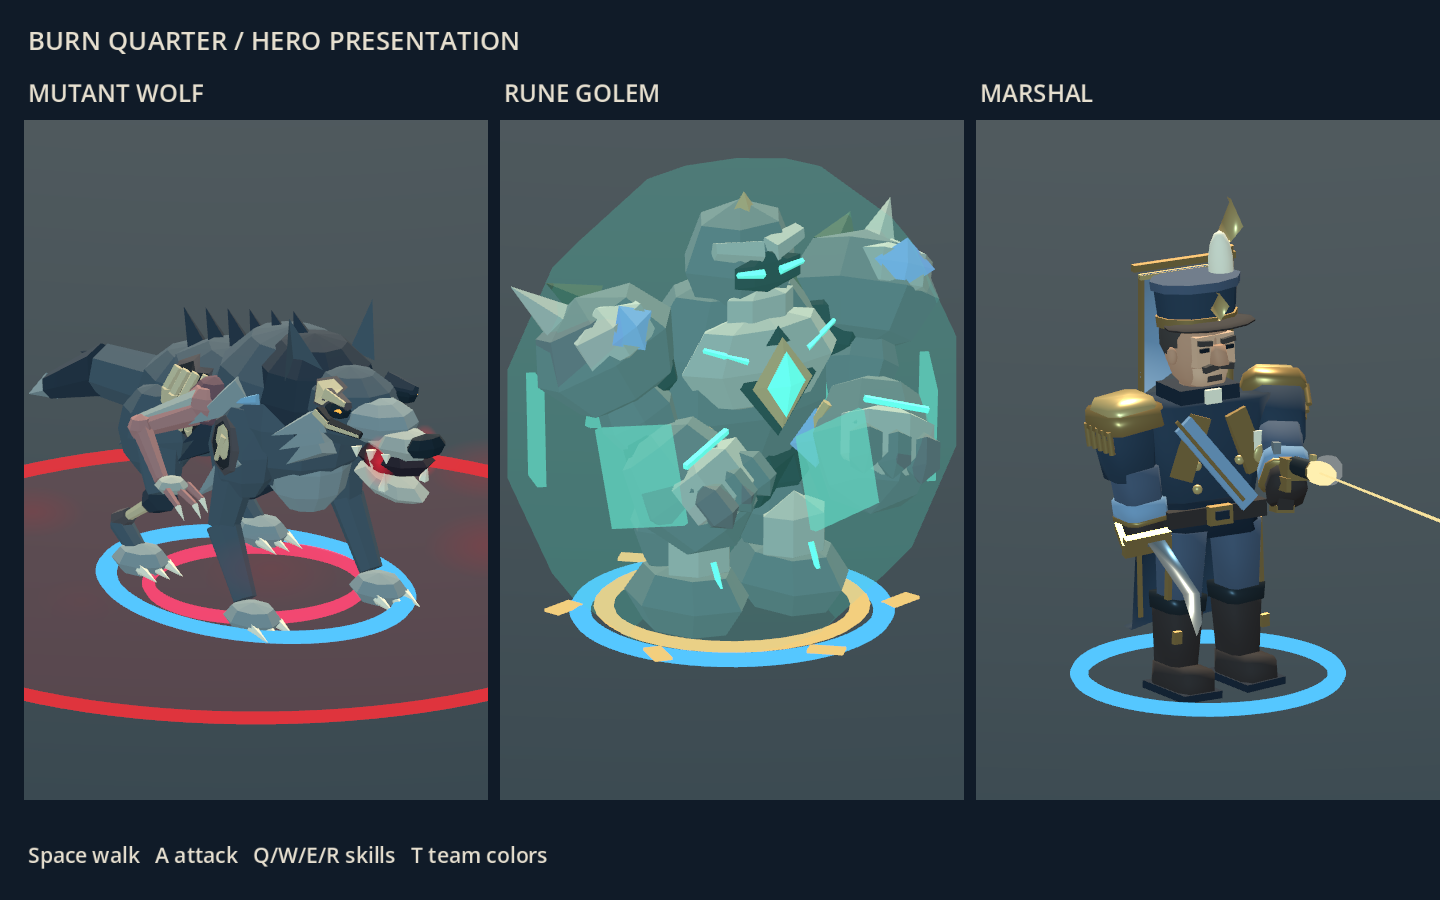
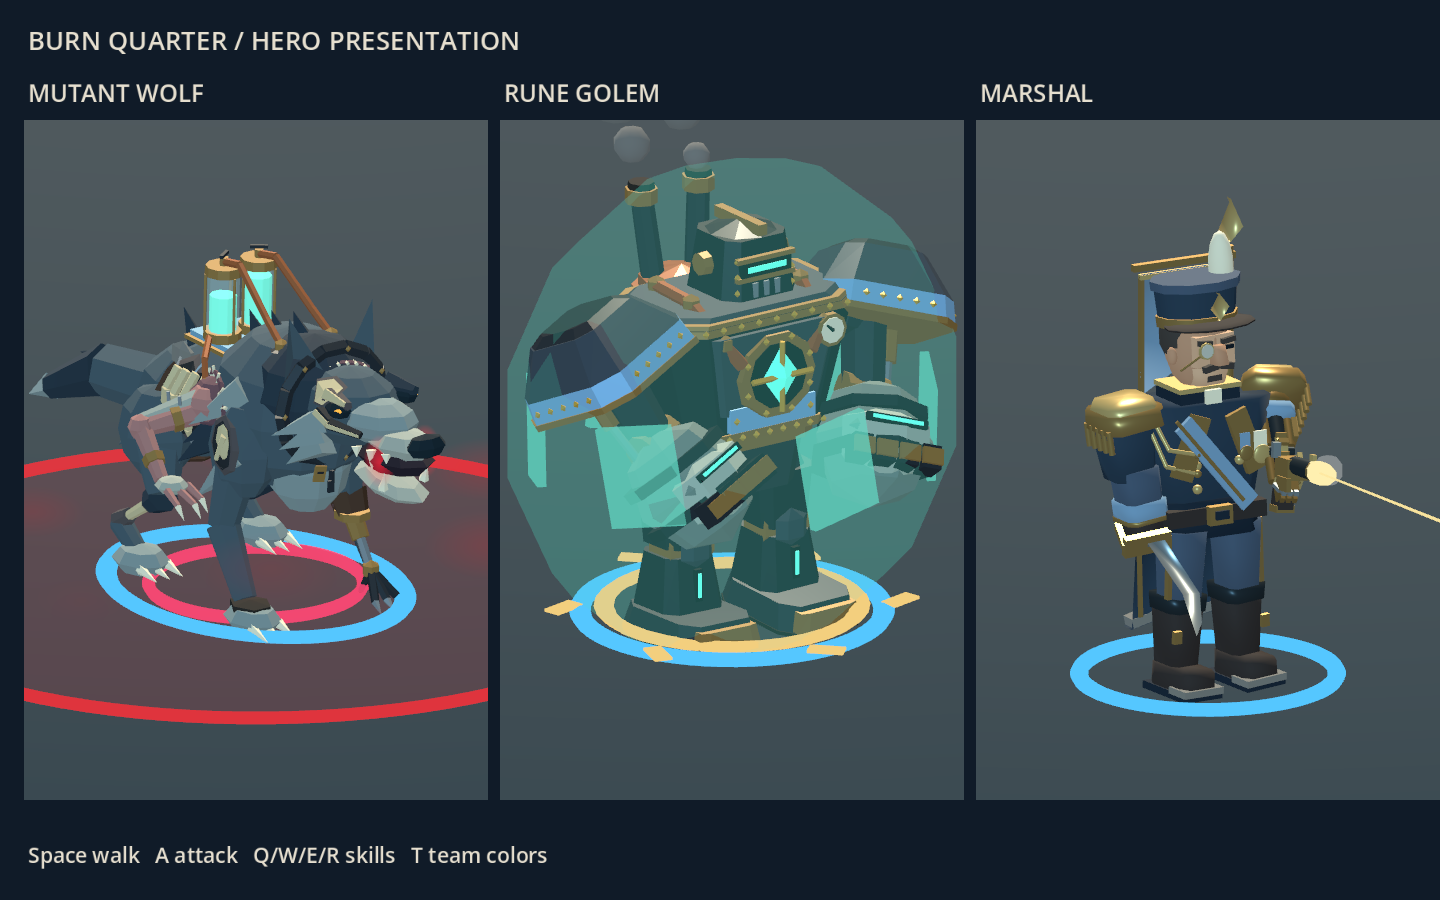
Document the steampunk hero looks and refresh the hero preview

diff --git a/docs/units.md b/docs/units.md
@@ -5,7 +5,7 @@
 - `units/Archer.tscn`: 타입 2. 1티어 RTS 공압사수. 목제 공압식 조총, 황동 압력 장치, 등짐 압축공기통, 연결 호스.
 - `units/MinionKnight.tscn`: 타입 100. 근접 라인 미니언. 소유자는 0입니다.
 - `units/MinionArcher.tscn`: 타입 101. 원거리 라인 미니언. 소유자는 0입니다.
-- `units/HeroTest.tscn`: 타입 200. 첫 영웅인 돌연변이 늑대. 네 다리와 오른쪽의 작은 팔 하나, 굽힌 손목과 세 갈래 발톱을 가진 독립 모델·초상화를 사용합니다. 서버 호환을 위해 씬 경로와 타입 번호는 유지합니다.
+- `units/HeroTest.tscn`: 타입 200. 첫 영웅인 돌연변이 늑대. 네 다리와 오른쪽의 작은 팔 하나, 굽힌 손목과 세 갈래 발톱에 등의 약품 실린더와 왼쪽 앞다리 의족을 단 독립 모델·초상화를 사용합니다. 서버 호환을 위해 씬 경로와 타입 번호는 유지합니다.
 - `previews/Units.tscn`: 세 모델을 서버 없이 확인하는 장면. Godot에서 열고 F6.
 - `previews/TierOneUnits.tscn`: 미니언과 RTS 유닛을 동일 배율로 비교하는 장면. 1/2/3 시점, T 진영 색상, R 회전.
 
@@ -41,7 +41,7 @@
 
 [발사·공기통 재충전 애니메이션](images/pneumatic-rifle-cycle.gif)
 
-늑대는 높은 어깨와 낮은 허리, 긴 주둥이, 송곳니, 황색 눈을 가진 회색 짐승입니다. 마른 상처 사이로 양쪽 옆구리의 갈비뼈와 오른쪽 어깨뼈·뒷다리뼈가 부분적으로 드러나 언데드 느낌을 냅니다. 얼굴 오른쪽에는 관자놀이·눈썹뼈·광대뼈가 살짝 드러나며 노란 눈은 유지합니다. 작은 팔은 오른쪽 옆구리에서 나와 바닥에 닿지 않으며 네 발만 보행에 사용합니다. Body·Head·Jaw·Tail·네 다리의 관절·ExtraArm을 나누어 호흡·보행·물기와 작은 팔의 움직임을 표시합니다. `tools/build_mutant_wolf.gd`를 실행하면 `units/models/MutantWolfRig.tscn`을 재생성하며 게임 중에는 메시를 만들지 않습니다. 클릭 영역은 외형에 맞췄지만 서버 충돌 반지름은 기존 0.5를 유지합니다.
+늑대는 높은 어깨와 낮은 허리, 긴 주둥이, 송곳니, 황색 눈을 가진 회색 짐승입니다. 마른 상처 사이로 양쪽 옆구리의 갈비뼈와 오른쪽 어깨뼈·뒷다리뼈가 부분적으로 드러나 언데드 느낌을 냅니다. 얼굴 오른쪽에는 관자놀이·눈썹뼈·광대뼈가 살짝 드러나며 노란 눈은 유지합니다. 작은 팔은 오른쪽 옆구리에서 나와 바닥에 닿지 않으며 네 발만 보행에 사용합니다. 연금술 실험체라서 등의 진영색 안장판에 유리 약품 실린더 두 개를 가죽끈으로 묶고, 구리관이 목덜미와 작은 팔로 들어갑니다. 목에는 끊어진 사슬이 달린 철 목줄, 왼쪽 귀에는 황동 번호표가 있고, 갈비 둘레에는 봉합 스테이플, 왼쪽 엉덩이와 작은 팔 뿌리에는 꿰맨 자국이 있습니다. 왼쪽 앞다리 아래쪽은 가죽 소켓·황동 실린더·강철 피스톤·쇠 발톱으로 된 의족입니다. Body·Head·Jaw·Tail·네 다리의 관절·ExtraArm을 나누어 호흡·보행·물기와 작은 팔의 움직임을 표시합니다. `tools/build_mutant_wolf.gd`를 실행하면 `units/models/MutantWolfRig.tscn`을 재생성하며 게임 중에는 메시를 만들지 않습니다. 클릭 영역은 외형에 맞췄지만 서버 충돌 반지름은 기존 0.5를 유지합니다.
 
 스킬 입력·사거리·재사용 시간은 서버의 `ABILITY` 정의를 사용합니다. 적/아군 대상은 유닛과 건물, 지점 대상은 좌표, 자신 대상은 즉시 시전을 지원합니다. 늑대 Q는 `SKILL 0 대상ID`로 요청하는 물어뜯기입니다. `SKILL 시전자ID 0 대상ID`와 `STATE ... DASH ...`에 맞춰 몸을 낮추고 턱을 벌리며 실제 이동은 POS, 피해는 HP를 따릅니다. 공통 코드는 `ISkillPresentation`에 슬롯과 강화 여부를 전달합니다. 골렘은 `GOLEM id 강화대기(0|1)`로 R 준비 상태를 표시하고, `SKILL` 끝의 `EMPOWERED` 토큰으로 강화 Q/W/E 연출을 선택합니다. 따라서 준비 상태 해제 메시지의 도착 순서와 무관하게 강화 시전을 표현합니다. `CONTROL`의 기절·침묵은 스킬을 막고, 속박은 이동 스킬만 막습니다.
 

diff --git a/docs/art-direction.md b/docs/art-direction.md
@@ -55,9 +55,9 @@
 |---|---|---|
 | 2티어 기계(화염기계, 증기포격차) | 그을린 철판, 황동 톱니, 리벳, 증기 | **형태의 기준.** 광택과 금박을 조금 더 올리면 된다 |
 | 1티어 병력(스팀돌격병, 공압사수) | 펠트 제복 + 황동 압력통 | 기준에 맞음. 때 얼룩만 더한다 |
-| 사령관 영웅 | 19세기 장교 군복 | 귀족 장교. 금 견장·금줄을 더 화려하게 |
-| 룬 골렘 | 룬과 청록 빛, 떠 있는 돌 조각 | 마법 공학으로 살릴 수 있다. 돌 대신 황동 틀과 리벳으로 감싼다 |
-| 돌연변이 늑대 | 생체 괴수 | 연금술 실험체로 설명하면 맞는다 |
+| 사령관 영웅 | **적용 완료.** 귀족 장교 군복에 금장 황동 의수, 금테 단안경, 금줄·훈장, 옷자락 잿가루 ([영웅 미리보기](images/hero-visuals.png)) | 기준에 맞음 |
+| 룬 골렘 | **적용 완료.** 리벳 철판·황동 띠 몸체, 포트홀 속 결정 노심, 등의 구리 보일러와 연기 나는 굴뚝 ([미리보기](images/rune-golem.png)) | 기준에 맞음 |
+| 돌연변이 늑대 | **적용 완료.** 등의 유리 약품 실린더와 구리관, 철 목줄, 꿰맨 자국과 스테이플, 피스톤 의족 ([미리보기](images/mutant-wolf.png)) | 기준에 맞음 |
 | 건물(HQ, 숙소, 인력 사무소, 브랜치, 조병창) | 파란 슬레이트 지붕의 반목조 오두막 | **가장 어긋남.** 중세 마을 |
 | 요새, 감시탑 | 흰 석성과 총안, 십자가 깃발, 나무 감시탑 | 중세 성 |
 | 공장, 기술연구소 | 오두막 + 기계 장식, 황동 돔 | 반쯤 맞음. 연구소는 마법 공학 시설로 키운다 |
@@ -163,9 +163,9 @@
 
 ### 영웅
 
-- **사령관:** 귀족 장교. 금 견장, 금줄, 훈장을 지금보다 화려하게. 군복은 깨끗하되 장화와 망토 끝에 잿가루.
-- **룬 골렘:** 마법 공학 골렘으로 정리한다. 떠 있는 돌 대신 리벳 철판과 황동 틀로 감싼 몸체, 가슴의 결정 노심(청록), 관절의 피스톤, 몸에 새긴 룬은 각인 홈 안에서만 빛난다. 몸체는 병기 규칙대로 윤기.
-- **돌연변이 늑대:** 연금술 실험체. 몸에 박힌 약품관과 황동 고정쇠, 등의 약품 탱크. 털에는 기름때와 잿가루가 듬성듬성.
+- **사령관:** **적용 완료.** 귀족 장교. 금 견장, 오른쪽 견장에서 가슴 단추로 늘어진 금줄, 훈장 둘, 깃 금줄, 오른쪽 눈의 금테 단안경. 권총을 쥔 왼팔은 통째로 금장 황동 의수(공 모양 어깨, 열린 황동 틀, 피스톤, 톱니 팔꿈치, 관절 손가락)이고, 등 오른쪽 구리 압력통의 호스가 어깨를 건너 의수로 들어간다(귀족은 금으로 꾸민 정교한 의수). 군복은 깨끗하되 장화 앞코와 옷자락 끝에 잿가루(`units/MarshalRig.cs`).
+- **룬 골렘:** **적용 완료.** 마법 공학 병기. 떠 있는 돌 대신 리벳 철판과 황동 띠로 감싼 술통 모양 몸체, 가슴 황동 포트홀과 금 창살 안의 결정 노심(청록), 노심에서 어깨를 넘어 등 구리 보일러로 가는 구리관, 보일러 위 굴뚝 두 개와 연기(`units/GolemAnimation.cs`), 뒤쪽 화실 창살의 불빛, 팔·다리 뒤의 피스톤, 압력계. 룬은 투구 틈·주먹·정강이의 각인 홈 안에서만 빛나고, 옛 룬석은 철띠로 조인 주먹으로만 남는다. 진영색은 가슴 아래 철판과 어깨 갑옷 아래 띠. 몸체는 병기 규칙대로 윤기(`tools/build_rune_golem.gd`).
+- **돌연변이 늑대:** **적용 완료.** 연구소에서 달아난 연금술 실험체. 가죽끈으로 묶은 진영색 안장판 위에 황동 틀 유리 실린더 두 개(청록 약품, 수위가 다름), 구리관이 목덜미와 작은 팔의 황동 포트로 박힌다. 끊어진 사슬과 번호표가 달린 철 목줄, 왼쪽 귀의 황동 번호표, 갈비 둘레의 봉합 스테이플, 왼쪽 엉덩이·작은 팔 뿌리·정수리의 꿰맨 자국, 작은 팔의 황동 고정쇠, 왼쪽 앞다리 피스톤 의족. 어깨·등에 잿가루, 오른쪽 앞발에 기름때가 듬성듬성(`tools/build_mutant_wolf.gd`).
 - **레인저:** 지금은 공압사수 모델을 키운 임시 모델이다. 결정 조준경을 단 장거리 공압 소총과 긴 외투를 입은 고유 모델이 필요하다.
 
 ### 정글 몬스터

diff --git a/CHANGELOG.md b/CHANGELOG.md
@@ -3,6 +3,10 @@
 새 항목은 위에 추가합니다. 현재 동작은 `docs/`에 있고, 여기에는 무엇이 언제 바뀌었는지만 적습니다.
 게임 규칙의 변경 이력은 `project-w-server/CHANGELOG.md`에 있습니다.
 
+## 2026-10-22
+
+- 세 영웅의 외형을 스팀펑크와 "실험의 부산물"로 바꿨습니다([아트 디렉션](docs/art-direction.md#영웅), [영웅 화면](docs/heroes.md), 사용자 요청). **늑대**는 연구소에서 달아난 연금술 실험체입니다. 등에 묶은 안장판 위의 유리 약품 실린더 두 개에서 구리관이 목덜미와 작은 팔로 들어가고, 끊어진 사슬이 달린 철 목줄·귀 번호표·봉합 스테이플과 꿰맨 자국이 있으며 왼쪽 앞다리는 황동 피스톤 의족입니다. **룬 골렘**은 둥근 돌덩이 대신 리벳 철판과 황동 띠로 감싼 마법 공학 병기입니다. 가슴 포트홀 속 결정 노심, 등의 구리 보일러와 연기 나는 굴뚝 두 개, 피스톤 관절이 생겼고 옛 룬석은 철띠로 조인 주먹으로만 남았습니다. **사령관**은 권총을 쥔 왼팔 전체가 금장 황동 의수로 바뀌고(등의 구리 압력통이 호스로 증기를 보냄) 금테 단안경·금줄·훈장, 장화와 옷자락 끝의 잿가루가 더해졌습니다. 애니메이션이 쓰는 관절 노드와 배율, 선택 영역·선택 원·체력바 높이는 그대로입니다. 늑대·골렘 초상화와 미리보기 이미지(`hero-visuals.png`·`mutant-wolf.png`·`rune-golem.png`)를 다시 만들었고, 실린더가 잘리지 않게 늑대 초상화 카메라를 조금 넓혔습니다. 레인저는 경기에 나오지 않아 그대로입니다. 서버 변경은 없습니다.
+
 ## 2026-10-21
 
 - 증기포격차도 베기·포격 연출을 씁니다([사망 연출](docs/combat-feedback.md#사망), 사용자 요청). 지금까지는 무엇에 죽든 통째로 넘어졌습니다(화염만 재). 베기에는 여덟 다리와 소형 포탑 중 두 개가 잘려 굴러가고 나머지가 넘어지며, 포격에는 불덩이 속에 다리·소형 포탑·거포 포신·양쪽 톱니바퀴·거포 받침이 차체에서 사방으로 날아갑니다.
